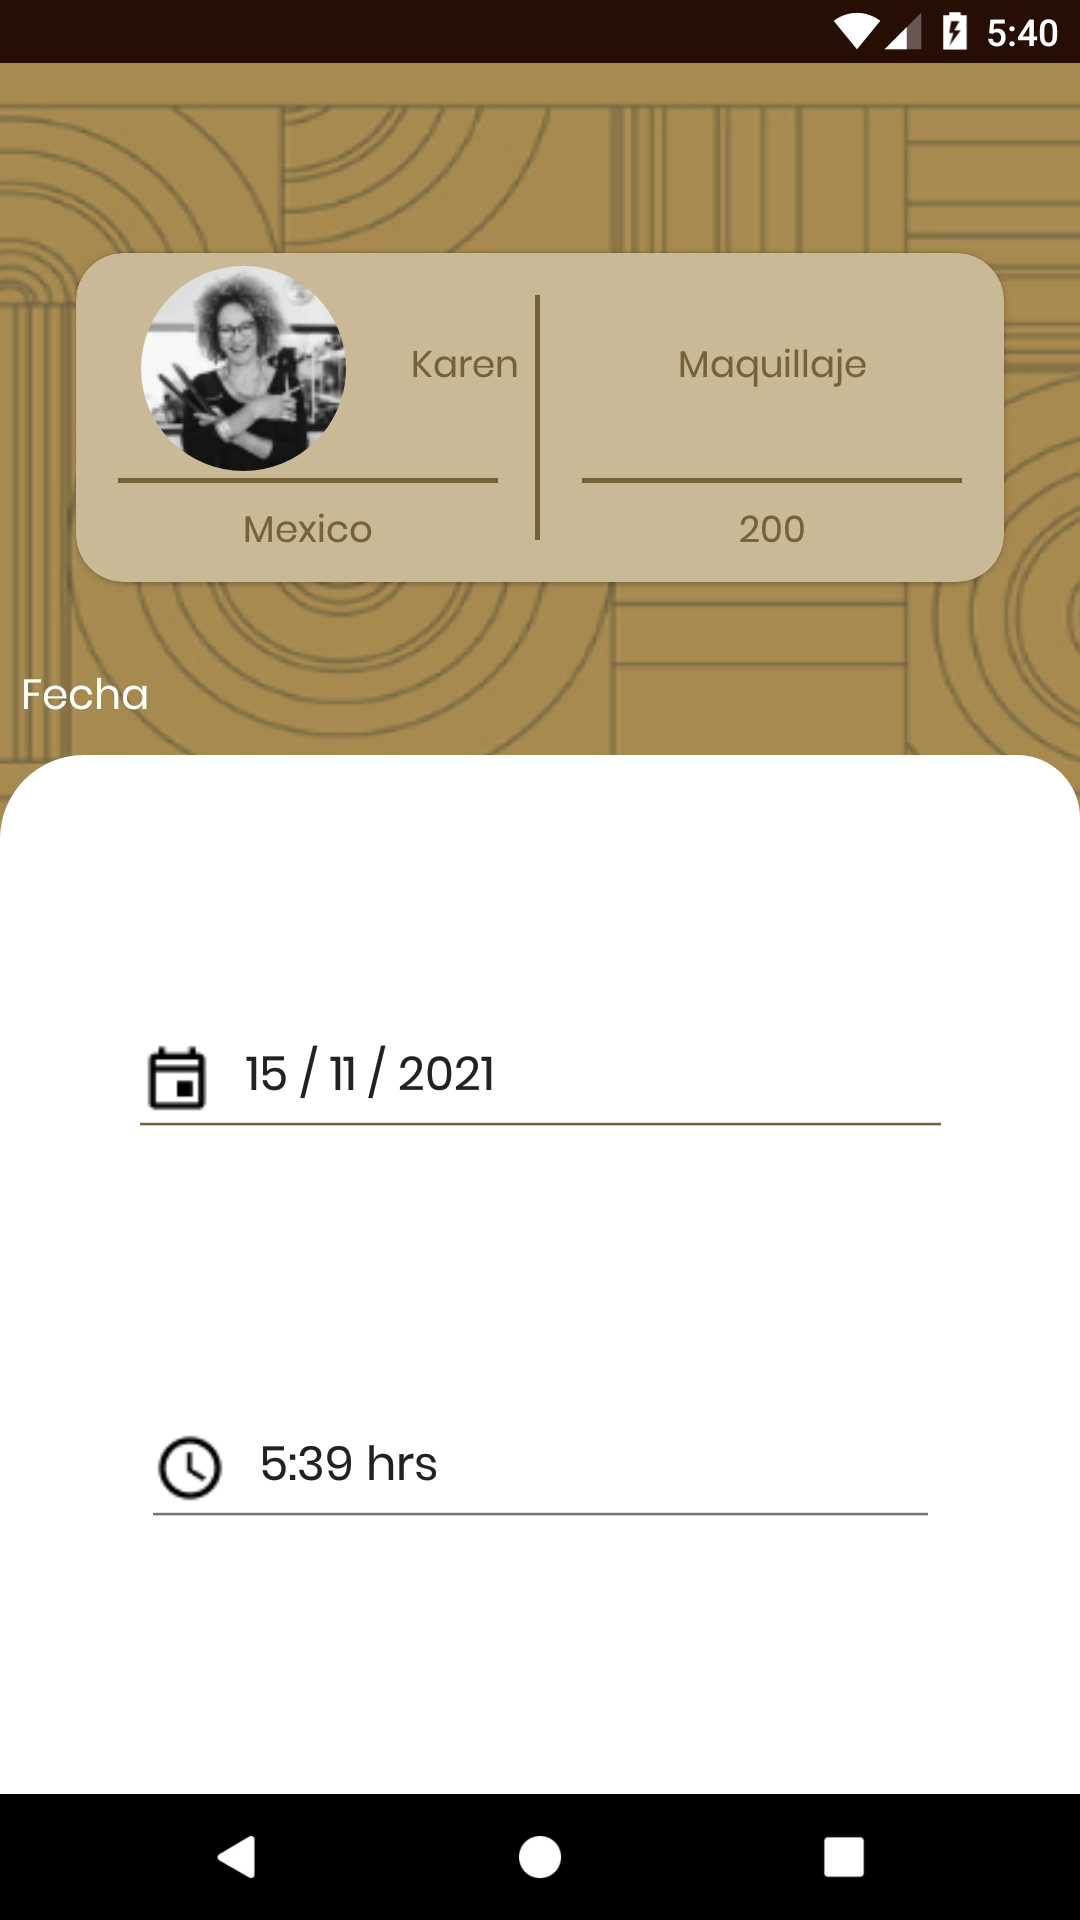
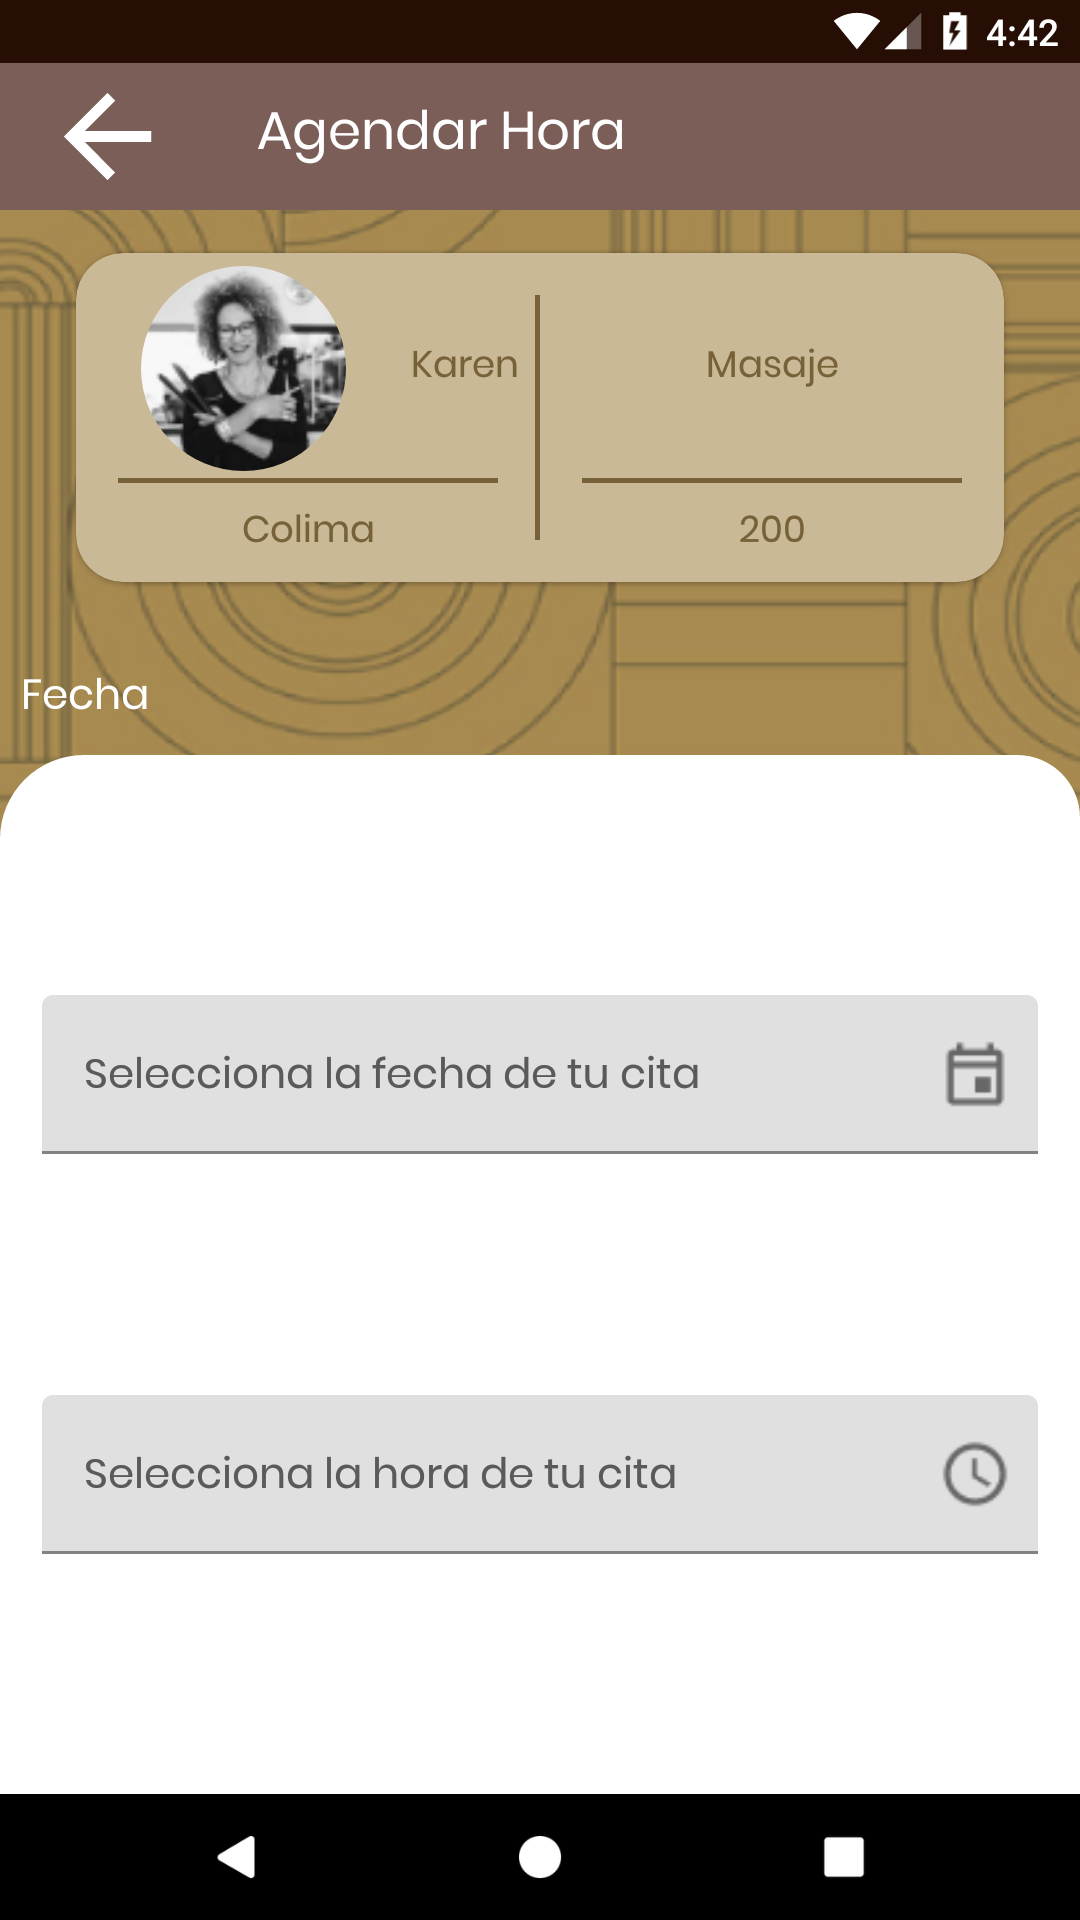
Update Screen
Se actualizacion las
pantallas de la aplicacion
como actualmente se encuentra
la aplicacion

diff --git a/app/src/main/java/com/example/citassalon/ui/sign_up/SignUp.kt b/app/src/main/java/com/example/citassalon/ui/sign_up/SignUp.kt
@@ -9,6 +9,7 @@ import android.widget.DatePicker
 import androidx.core.widget.doOnTextChanged
 import androidx.fragment.app.Fragment
 import androidx.fragment.app.viewModels
+import androidx.navigation.fragment.findNavController
 import com.example.citassalon.data.models.User
 import com.example.citassalon.databinding.SignInBinding
 import com.example.citassalon.ui.fecha.DatePickerFragment
@@ -36,15 +37,21 @@ class SignUp : Fragment(), DatePickerDialog.OnDateSetListener {
     }
 
     private fun setUpUi() {
-        binding.buttonRegistarse.setOnClickListener {
-            saveUserImformation()
-            singUp()
-        }
-        binding.container.setOnClickListener {
-            hideKeyboard()
-        }
-        binding.birtday.setEndIconOnClickListener {
-            showDatePickerDialog(getListenerOnDataSet(),this)
+        with(binding) {
+            toolbarLayout.toolbarBack.setOnClickListener {
+                findNavController().popBackStack()
+            }
+            toolbarLayout.toolbarTitle.text = "SignUp"
+            buttonRegistarse.setOnClickListener {
+                saveUserImformation()
+                singUp()
+            }
+            container.setOnClickListener {
+                hideKeyboard()
+            }
+            birtday.setEndIconOnClickListener {
+                showDatePickerDialog(getListenerOnDataSet(), this@SignUp)
+            }
         }
         doOnTextChange()
     }
